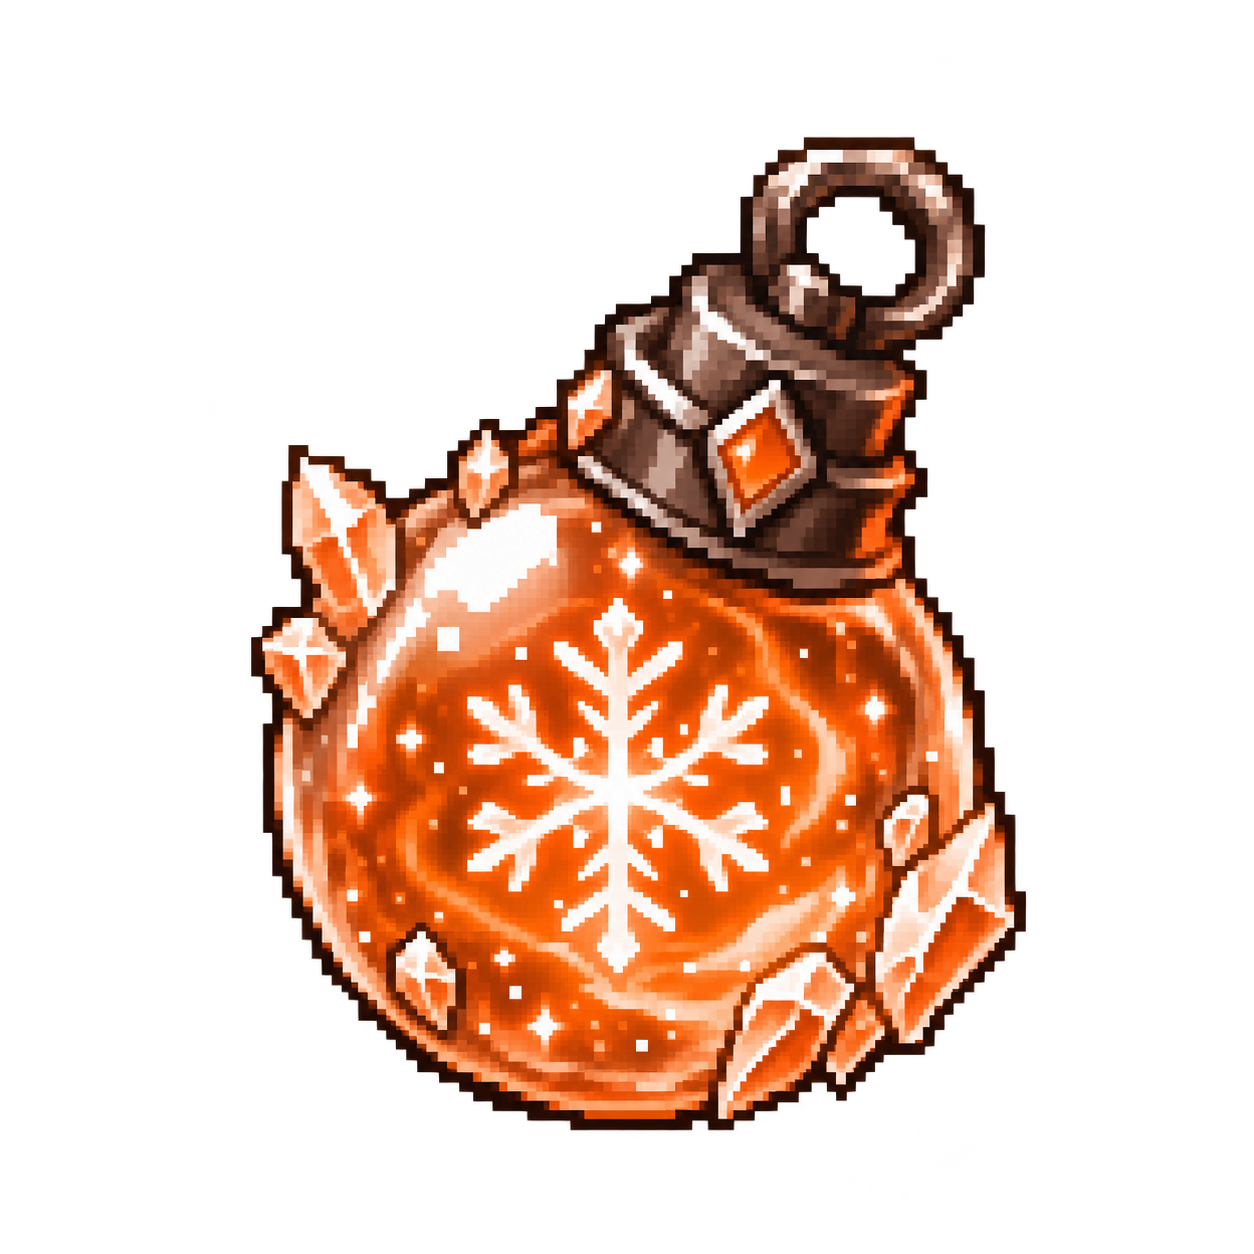
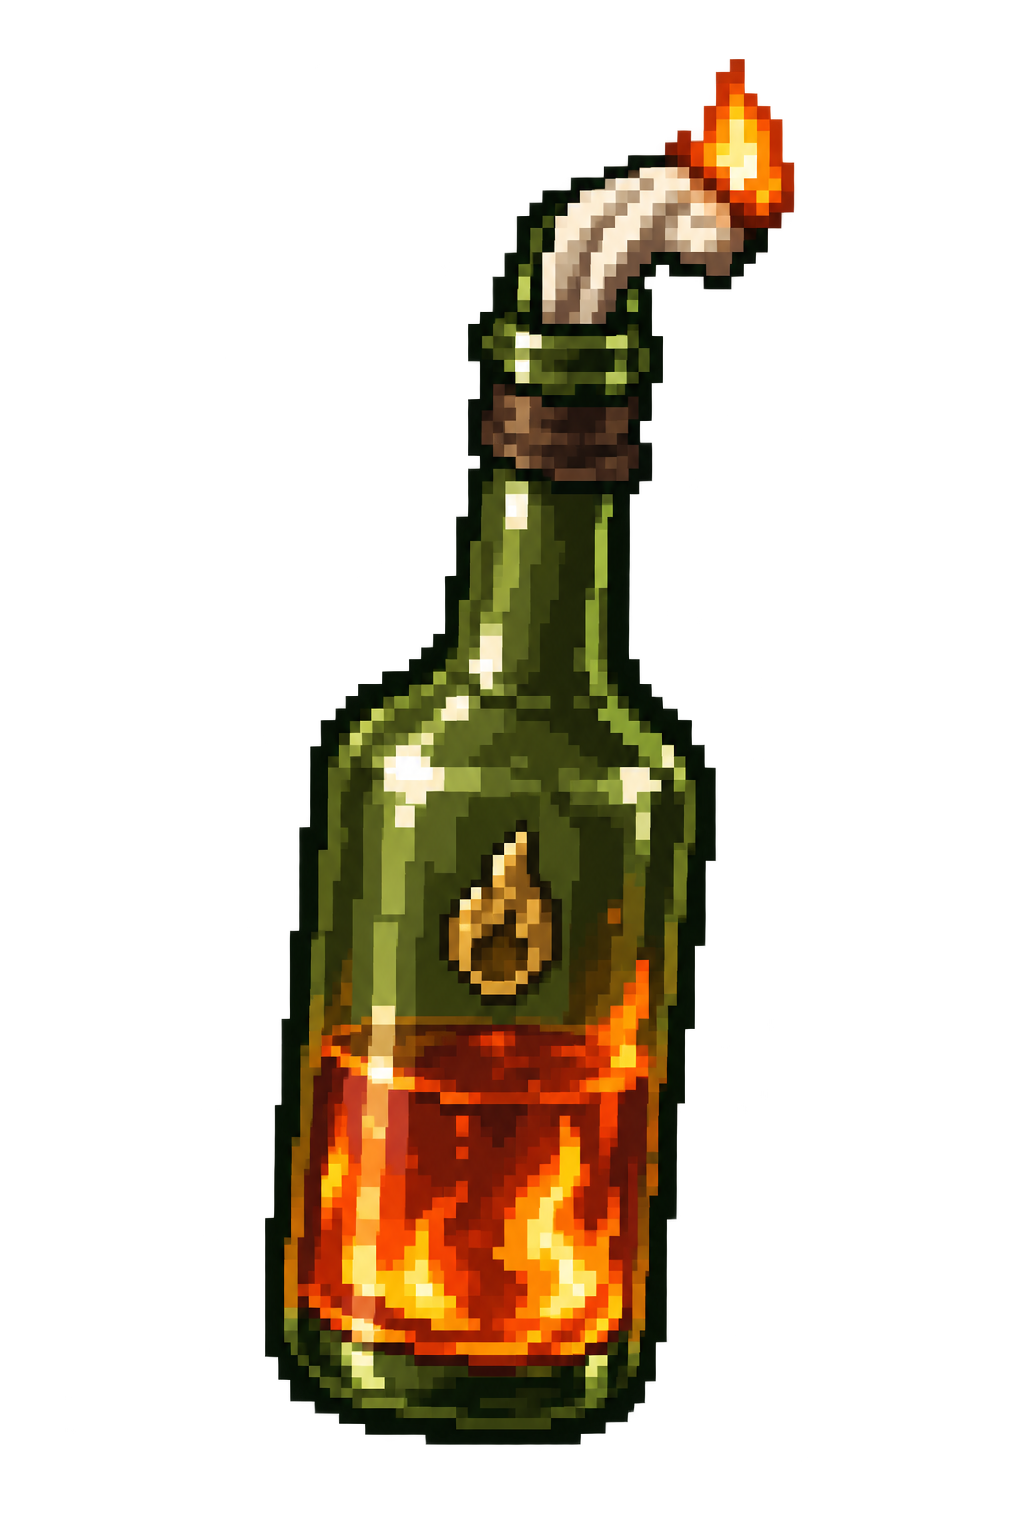
feat(consumables): give Burn Vial distinct bottle art and remove player flame

diff --git a/source/core/src/main/com/csse3200/game/components/player/BurnVialFeedbackComponent.java b/source/core/src/main/com/csse3200/game/components/player/BurnVialFeedbackComponent.java
@@ -2,7 +2,6 @@ package com.csse3200.game.components.player;
 
 import com.badlogic.gdx.Gdx;
 import com.badlogic.gdx.graphics.Color;
-import com.badlogic.gdx.graphics.Pixmap;
 import com.badlogic.gdx.graphics.Texture;
 import com.badlogic.gdx.graphics.g2d.SpriteBatch;
 import com.badlogic.gdx.graphics.g2d.TextureRegion;
@@ -11,7 +10,6 @@ import com.badlogic.gdx.math.Vector2;
 import com.csse3200.game.components.CombatStatsComponent;
 import com.csse3200.game.components.StatusEffectsControllerComponent;
 import com.csse3200.game.entities.Entity;
-import com.csse3200.game.items.ItemIds;
 import com.csse3200.game.items.consumables.VialBurning;
 import com.csse3200.game.rendering.RenderComponent;
 import com.csse3200.game.services.ServiceLocator;
@@ -20,18 +18,8 @@ import java.util.LinkedHashMap;
 import java.util.List;
 import java.util.Map;
 
-/**
- * A short, unmissable orange flame icon drawn above the player's head whenever a Burn Vial is used,
- * together with animated flames following enemies affected by that vial.
- *
- * <p>Mirrors {@link HealingPotionFeedbackComponent}'s pattern: listen for {@link
- * ConsumableEffectComponent#USED}, then draw a simple tinted shape for a fixed duration.
- */
+/** Animated flames following enemies affected by a Burn Vial. */
 public class BurnVialFeedbackComponent extends RenderComponent {
-  private static final float DURATION = 1.2f;
-  private static final float TILE_SIZE = 0.22f;
-  private Texture pixel;
-  private float remaining;
   private Texture flameTexture;
   private TextureRegion[] flameFrames;
   private float flameTime;
@@ -46,22 +34,9 @@ public class BurnVialFeedbackComponent extends RenderComponent {
   }
 
   @Override
-  public void create() {
-    super.create();
-    entity.getEvents().addListener(ConsumableEffectComponent.USED, this::onItemUsed);
-  }
-
-  private void onItemUsed(String id) {
-    if (ItemIds.BURN_VIAL.equals(id)) {
-      remaining = DURATION;
-    }
-  }
-
-  @Override
   public void update() {
     float delta = ServiceLocator.getTimeSource().getDeltaTime();
     if (Float.isFinite(delta) && delta > 0f) {
-      remaining = Math.max(0f, remaining - delta);
       flameTime = (flameTime + delta) % 0.4f;
     }
     removeEndedBurns();
@@ -72,28 +47,6 @@ public class BurnVialFeedbackComponent extends RenderComponent {
     if (disposed || isRepeatPass()) return;
     removeEndedBurns();
     if (!burningEnemies.isEmpty()) drawEnemyFlames(batch);
-    if (remaining <= 0f) return;
-    if (pixel == null) {
-      Pixmap pixmap = new Pixmap(1, 1, Pixmap.Format.RGBA8888);
-      pixmap.setColor(Color.WHITE);
-      pixmap.fill();
-      pixel = new Texture(pixmap);
-      pixmap.dispose();
-    }
-
-    float alpha = remaining / DURATION;
-    Vector2 centre = entity.getCenterPosition();
-    float x = centre.x - TILE_SIZE / 2f;
-    float originalColour = batch.getPackedColor();
-
-    // Three stacked tiles, widest at the base, mimicking a simple flame silhouette.
-    batch.setColor(0.85f, 0.15f, 0.05f, alpha);
-    batch.draw(pixel, x - TILE_SIZE * 0.3f, 0.9f + centre.y, TILE_SIZE * 1.6f, TILE_SIZE);
-    batch.setColor(1f, 0.5f, 0f, alpha);
-    batch.draw(pixel, x - TILE_SIZE * 0.15f, 1.05f + centre.y, TILE_SIZE * 1.3f, TILE_SIZE);
-    batch.setColor(1f, 0.85f, 0.2f, alpha);
-    batch.draw(pixel, x, 1.2f + centre.y, TILE_SIZE, TILE_SIZE);
-    batch.setPackedColor(originalColour);
   }
 
   private void removeEndedBurns() {
@@ -162,9 +115,7 @@ public class BurnVialFeedbackComponent extends RenderComponent {
   public void dispose() {
     disposed = true;
     burningEnemies.clear();
-    remaining = 0f;
     if (flameTexture != null) flameTexture.dispose();
-    if (pixel != null) pixel.dispose();
     super.dispose();
   }
 }

diff --git a/source/core/src/test/com/csse3200/game/components/player/BurnVialFeedbackComponentTest.java b/source/core/src/test/com/csse3200/game/components/player/BurnVialFeedbackComponentTest.java
@@ -2,14 +2,8 @@ package com.csse3200.game.components.player;
 
 import static org.junit.jupiter.api.Assertions.assertFalse;
 import static org.junit.jupiter.api.Assertions.assertTrue;
-import static org.mockito.ArgumentMatchers.anyFloat;
-import static org.mockito.ArgumentMatchers.eq;
-import static org.mockito.Mockito.clearInvocations;
 import static org.mockito.Mockito.mock;
 import static org.mockito.Mockito.mockConstruction;
-import static org.mockito.Mockito.never;
-import static org.mockito.Mockito.times;
-import static org.mockito.Mockito.verify;
 import static org.mockito.Mockito.when;
 
 import com.badlogic.gdx.graphics.Camera;
@@ -72,25 +66,19 @@ class BurnVialFeedbackComponentTest {
   }
 
   @Test
-  void burnVialShowsThreeTilesThenFadesAway() {
+  void successfulBurnVialWithoutTargetsDoesNotDrawPlayerFlameOrAllocateTextures() {
     SpriteBatch batch = mock(SpriteBatch.class);
     inventory.addConsumable(ItemIds.BURN_VIAL);
-
     try (MockedConstruction<Pixmap> pixels = mockConstruction(Pixmap.class);
         MockedConstruction<Texture> textures = mockConstruction(Texture.class)) {
       assertTrue(consumables.tryUse(ItemIds.BURN_VIAL));
       feedback.render(batch);
-      Texture pixel = textures.constructed().get(0);
-      verify(batch, times(3)).draw(eq(pixel), anyFloat(), anyFloat(), anyFloat(), anyFloat());
-
-      // DURATION is 1.2s; two 0.7s ticks is more than enough to exhaust it.
       feedback.update();
-      feedback.update();
-      clearInvocations(batch);
       feedback.render(batch);
-      verify(batch, never()).draw(eq(pixel), anyFloat(), anyFloat(), anyFloat(), anyFloat());
+      assertTrue(pixels.constructed().isEmpty());
+      assertTrue(textures.constructed().isEmpty());
+      org.mockito.Mockito.verifyNoInteractions(batch);
       feedback.dispose();
-      verify(pixel).dispose();
     }
   }
 

diff --git a/source/core/src/main/com/csse3200/game/components/maingame/ConsumableHotbarDisplay.java b/source/core/src/main/com/csse3200/game/components/maingame/ConsumableHotbarDisplay.java
@@ -153,6 +153,7 @@ public class ConsumableHotbarDisplay extends UIComponent {
       case ItemIds.HEALTH_POTION -> new TextureRegion(texture, 441, 266, 370, 727);
       case ItemIds.MEDIUM_HEALTH_POTION -> new TextureRegion(texture, 255, 131, 743, 1007);
       case ItemIds.LARGE_HEALTH_POTION -> new TextureRegion(texture, 163, 122, 928, 1024);
+      case ItemIds.BURN_VIAL -> new TextureRegion(texture, 265, 59, 530, 1386);
       case ItemIds.SHIELD -> new TextureRegion(texture, 310, 322, 633, 653);
       case ItemIds.SPEED_POTION -> new TextureRegion(texture, 393, 220, 481, 784);
       case ItemIds.STRENGTH_POTION -> new TextureRegion(texture, 310, 173, 635, 928);

diff --git a/source/docs/consumable-hud.md b/source/docs/consumable-hud.md
@@ -207,3 +207,16 @@ existing pickup and Tab/Q path, or the upstream `burnvial` QA command for its de
 Full local verification passed 1964 tests with zero failures, errors or skips,
 desktop compilation, core JAR assembly and Spotless checks. This adaptation has
 not been launched for manual gameplay verification or pushed to a remote branch.
+
+At Yuri's request, the player-head three-tile Burn Vial flame was removed locally.
+Enemy-attached flames, damage pulses, the warm flash and actual Burning behavior
+remain unchanged. The player-only timer/event hook and pixel texture were removed
+with that visual. 57 related tests, desktop build and Spotless checks passed.
+
+Yuri approved a distinct olive-green glass Molotov-style bottle with orange-red
+fuel at its base and a cloth wick. Its transparent PNG replaces the Burn Vial
+artwork at the existing asset path; the HUD trims its measured transparent padding.
+Inventory and world drops reuse the existing item texture metadata. Item IDs,
+quantities, damage and burning behavior are unchanged by this artwork update.
+The final bottle-art version passed 61 related tests, desktop compilation, core
+JAR assembly and Spotless checks. Its in-game appearance remains for manual review.
